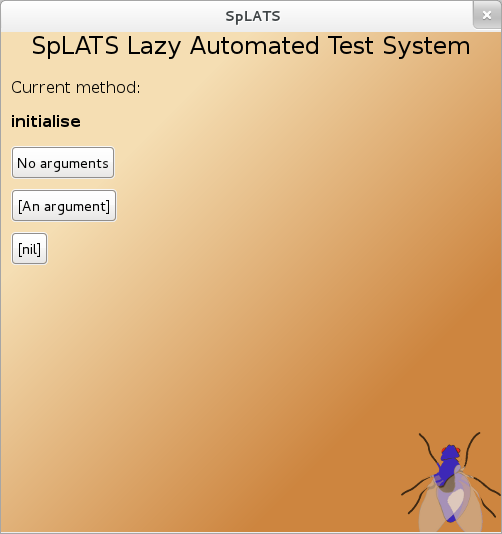
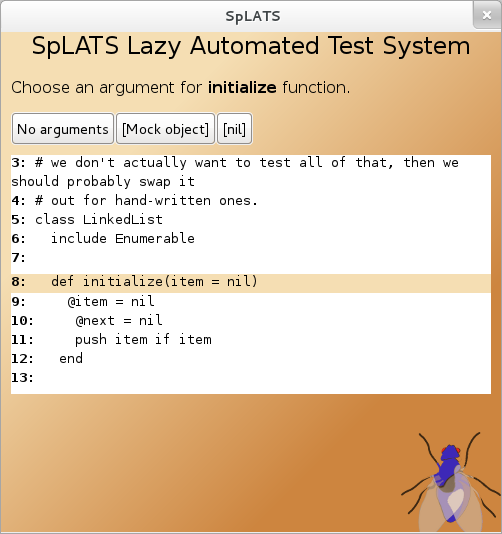
Pictures and text edit

diff --git a/docs/chapters/architecture.tex b/docs/chapters/architecture.tex
@@ -98,7 +98,7 @@ Figure \ref{fig:GUI_Page2} is the same as the first page, only for the second ve
   
   Once the user has input the correct information and they click "next", if they have selected "depth-limited" or "random" as the traversal methods, they will only see a page saying "generating tests", an alert pops up saying "testing complete" and SpLATS GUI will exit. It was decided not to draw graphs for these methods because the graphs will be extremely large.
   
-  If the user has selected "Manual", then the GUI becomes more interesting. In order to have the GUI communicating with the code running SpLATS, threads were initially decided to be used. In theory, one thread would start the SpLATS process, and then when the user needed to give input, the thread would switch back to the GUI to ask for the user, the user would give input and so on until the end of the generation. The problem with threads is that they are determined by the thread scheduler, and it is difficult to time the threads and dictate exactly which thread should start when. This problem was overcome by using Ruby's in-built Fiber module. This is a much more lightweight implementation of Threads, but they don't need a scheduler, each Fiber has its own stack and the Fibers need to be specifically started and stopped. The three of these in combination were exactly what was needed to make the GUI run. Without the overhead of a scheduler, the GUI is extremely lightweight. The stack means that variables could be passed between Fibers, so the options available to the user are sent from the controller to the GUI, and the user's choice sent from the GUI to the controller. Figure \ref{fig:GUI_Page4a} shows the first choice the user will always have when in manual mode. They have to select which parameters to give to the initialise method (if there are any).
+  If the user has selected "Manual", then the GUI becomes more interesting. In order to have the GUI communicating with the code running SpLATS, threads were initially chosen. In theory, one thread would start the SpLATS process, and then when the user needed to give input, the thread would switch back to the GUI to ask for the user, the user would give input and so on until the end of the generation. The problem with threads is that they are determined by the thread scheduler, and it is difficult to time the threads and dictate exactly which thread should start when. This problem was overcome by using Ruby's in-built Fiber module. This is a much more lightweight implementation of Threads, but they don't need a scheduler, each Fiber has its own stack and the Fibers need to be specifically started and stopped. The three of these in combination were exactly what was needed to make the GUI run. Without the overhead of a scheduler, the GUI is extremely lightweight. The stack means that variables could be passed between Fibers, so the options available to the user are sent from the controller to the GUI, and the user's choice sent from the GUI to the controller. Figure \ref{fig:GUI_Page4a} shows the first choice the user will always have when in manual mode. They have to select which parameters to give to the initialise method (if there are any). When debugging the human traversal in the CLI, the context of the decision being made was difficult to deduce. The design decision was made to show the user the relevant line in the code, plus or minus five lines.
   
   \begin{figure}
     \centering
@@ -114,7 +114,7 @@ Figure \ref{fig:GUI_Page2} is the same as the first page, only for the second ve
     \label{fig:GUI_Page4b}
   \end{figure}
   
-  As the user steps down the traversal tree, they are presented a graph at each choice they have the option to make. This graph is generated from information stored in SpLATS as the user makes their selections. The graph was designed to be a maximum of three levels deep, because otherwise displaying the user the information becomes too cumbersome. Figure \ref{fig:GUI_Page4b} shows what the user sees when they have already made decisions, and they are being asked to select the next method to generate tests for. This way the user can keep track of the methods they have selected and at what depth they are currently at.
+  As the user steps down the traversal tree, they are presented a graph at each choice they have the option to make. A new window pops up, displaying a graph generated from information stored in SpLATS as the user makes their selections. The graph was designed to be a maximum of three levels deep, because otherwise displaying the user the information becomes too cumbersome. Figure \ref{fig:GUI_Page4b} shows what the user sees when they have already made decisions, and they are being asked to select the next method to generate tests for. This way the user can keep track of the methods they have selected and at what depth they are currently at.
 
   \subsection{Test Generator}
     The purpose of the test generator is to produce tests for a given Class
